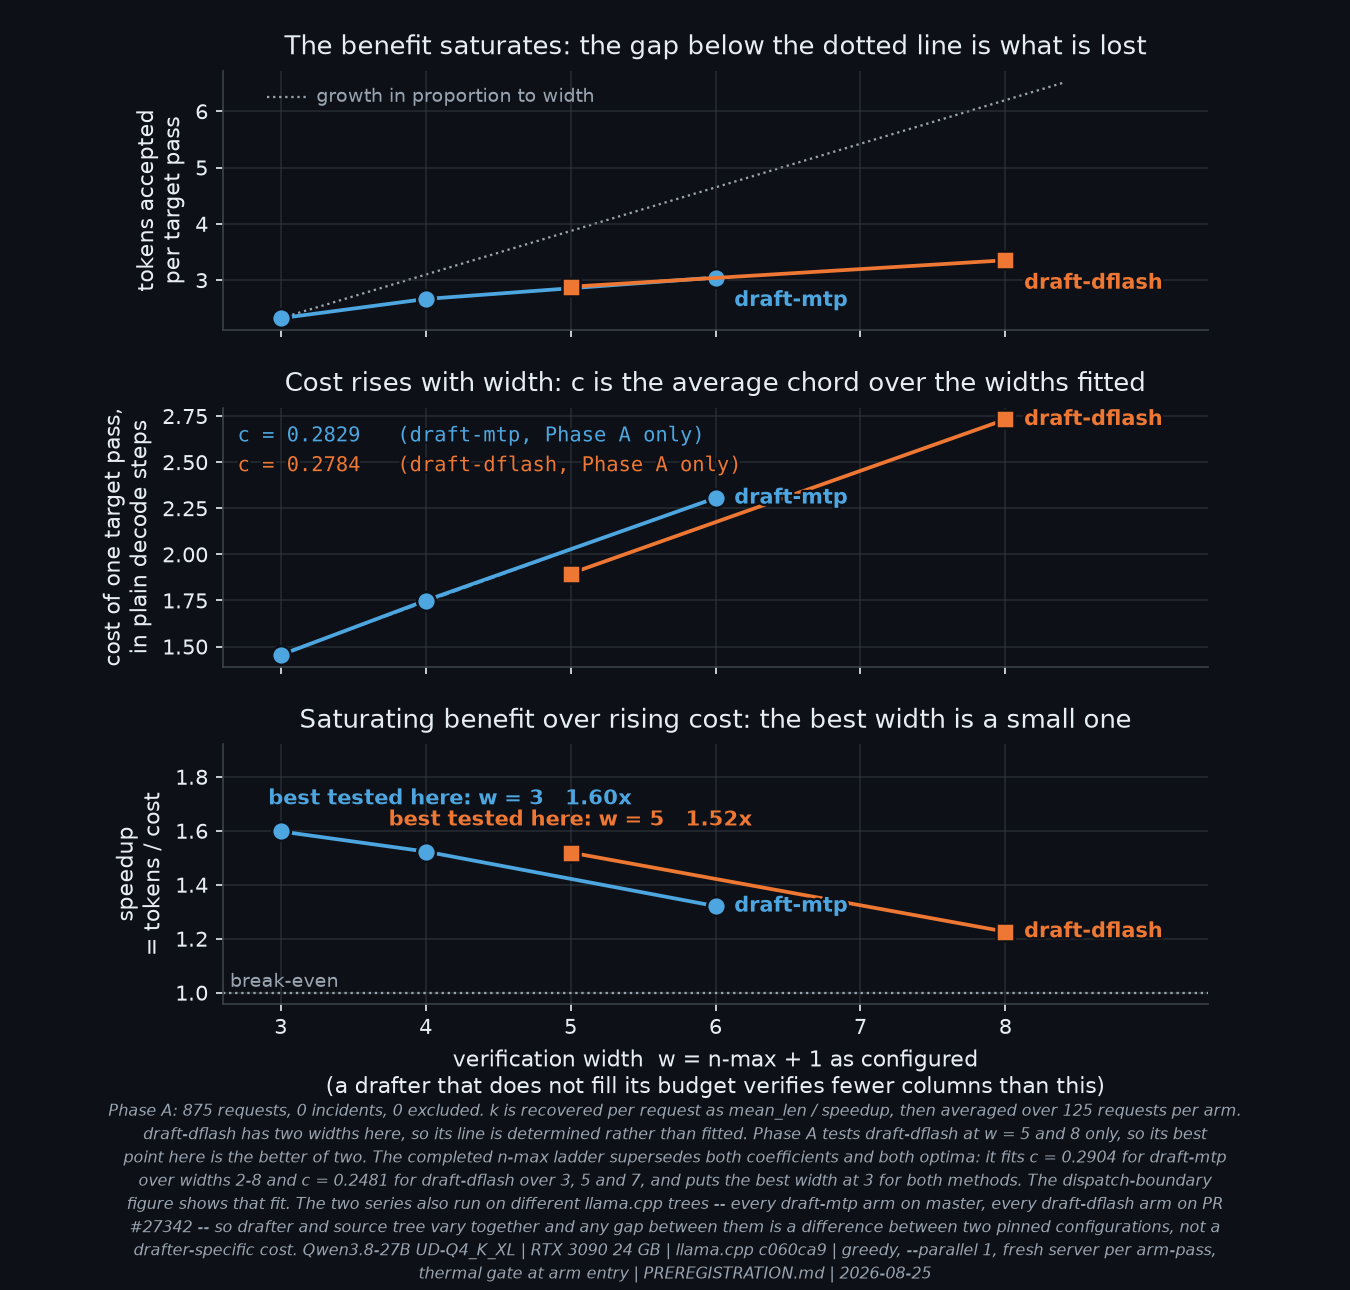
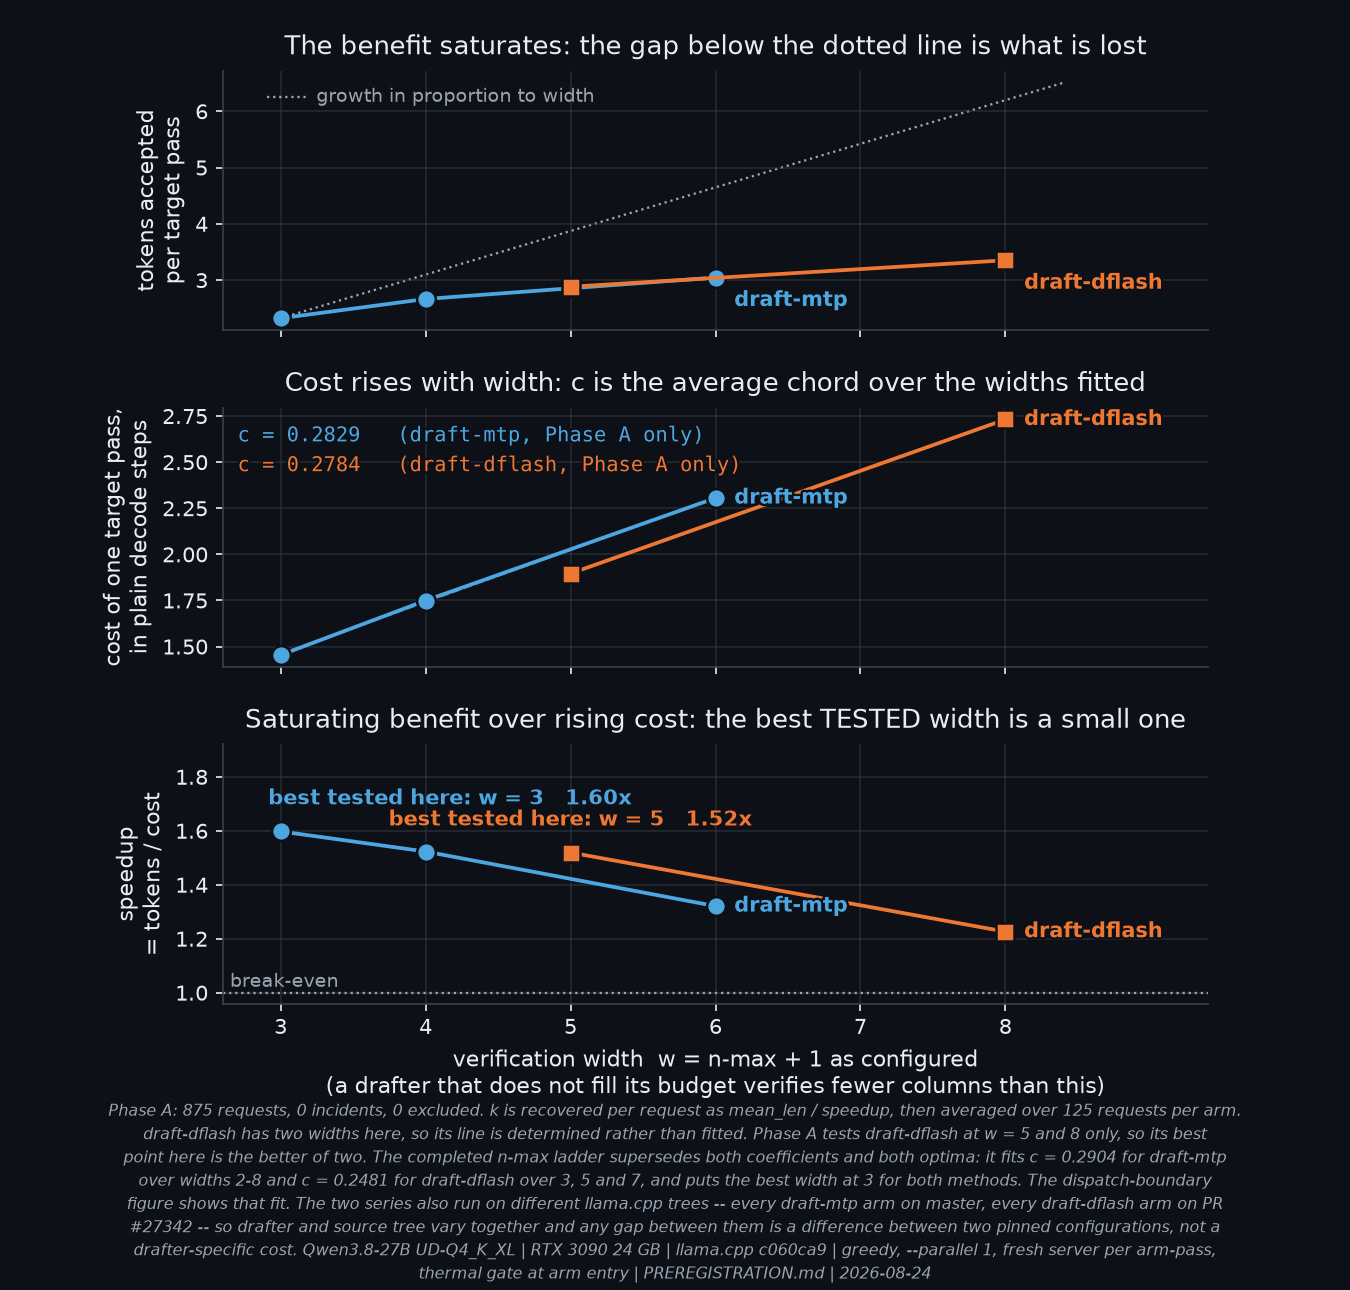
figures: two titles that said more than the bars under them, and a date typed once
`fig_bound_by`'s lower panel was titled "Below 1200 MHz everything scales with clock.
Above it, only the speculative arms still do", with a tick reading "the baseline stops
tracking it". The bar beside that tick reads **0.27**. README.md states the opposite of
the title -- "Both workloads respond to both clocks; what changes is which one they
respond to more" -- and the figure's own alt text in docs/RESOURCE_RESPONSE.md says the
baseline "falls to 0.27 while the speculative arms stay at 0.76 and 0.80". So a reader
with images off got the accurate version and a reader who saw the figure did not. The
title now says the response falls by two thirds and the tick says it falls to 0.27.

`fig_cost_model`'s speedup panel was titled "the best width is a small one", asserting an
optimum that README.md scores as "chosen and evaluated on the same ladder, so that is a
selection-on-the-data figure" and that docs/COST_MODEL.md heads "why the intervals do not
settle it". Its own annotation already said "best tested here"; the title now says TESTED
too.

`plot_qsmall_ladder` panel 3 said the 9B ladder "is the only ladder that can ask" whether
bf16 preserves parity. That is a claim about the world; the reason is the checkable thing
and is now what it states -- the 27B cannot hold bf16 in 24 GB.

And the footer date. `PROVENANCE` carried one hard-coded 2026-08-25 on every figure in
plot.py. Those six figures draw three phases taken on two days: phase_a and phase_r2 on
[…]

Changed region(s): [[0.1867, 0.5271, 0.84, 0.5891]]

diff --git a/analysis/plot.py b/analysis/plot.py
@@ -146,7 +146,19 @@ STYLE = _ThemedStyle()
 
 PROVENANCE = ("Qwen3.8-27B UD-Q4_K_XL | RTX 3090 24 GB | llama.cpp c060ca9 | greedy, "
               "--parallel 1, fresh server per arm-pass, thermal gate at arm entry | "
-              "PREREGISTRATION.md | 2026-08-25")
+              "PREREGISTRATION.md")
+
+
+def captured_on(result):
+    """The date the drawn result was taken, read from the file rather than typed once.
+
+    The footer carried a single hard-coded `2026-08-25` on every figure in this module. The six
+    figures draw three phases taken on two different days: `phase_a` and `phase_r2` on
+    2026-08-24, `phase_nmax` on 2026-08-25. So five of the six asserted a date one day after
+    their own data. A provenance line is the last place a date should come from memory.
+    """
+    ts = ((result or {}).get("env") or {}).get("captured_at") or ""
+    return ts.split("T")[0] or "capture date not recorded"
 PHASE_A_N = "Phase A: 875 requests, 0 incidents, 0 excluded."
 CI_NOTE = ("Nominal 95 % paired cluster bootstrap over prompts within class, 10 000 "
            "resamples. The inferential unit is the prompt, n = 25; the passes are repeated "
@@ -191,7 +203,8 @@ def _halo(lw=2.2):
     return [pe.withStroke(linewidth=lw, foreground=C("bg"))]
 
 
-def _save(fig, stem, note="", bottom=0.13, provenance=None, top_in=None):
+def _save(fig, stem, note="", bottom=0.13, provenance=None, top_in=None,
+          captured=None):
     # Footer spacing is computed in inches, not in figure fractions. A fixed fraction is a
     # different number of pixels on every figure height, and on the 4.5-inch panels it put the
     # footer lines on top of each other and on the x-label.
@@ -199,8 +212,10 @@ def _save(fig, stem, note="", bottom=0.13, provenance=None, top_in=None):
     # `provenance` is overridable because the Phase M figures cover two targets and the
     # module-level line names one. A figure that carries the wrong target in its footer is worse
     # than one with no footer.
-    lines = textwrap.wrap(" ".join(x for x in (note, provenance or PROVENANCE) if x),
-                          width=int(w_in * 15.5))
+    prov = provenance or PROVENANCE
+    if captured:
+        prov = f"{prov} | {captured}"
+    lines = textwrap.wrap(" ".join(x for x in (note, prov) if x), width=int(w_in * 15.5))
     line_h, pad = 0.155 / h_in, 0.05 / h_in
     # 0.62 in below the axes for the tick labels and the x-label, then the footer block under it.
     fig.subplots_adjust(bottom=max(bottom, pad + line_h * len(lines) + 0.62 / h_in))
@@ -243,7 +258,7 @@ def _despine(ax, keep=("bottom", "left")):
 
 
 # ------------------------------------------------------------------ 1. the primary endpoint
-def fig_headline(series, prompt_class):
+def fig_headline(series, prompt_class, captured=None):
     rows = sorted(((a, _effect(series, prompt_class, a), _strat_mean(series, prompt_class, a))
                    for a in SPEC_ARMS), key=lambda r: r[1].point)
     base_abs = _strat_mean(series, prompt_class, "baseline@master")
@@ -274,11 +289,11 @@ def fig_headline(series, prompt_class):
                        for k, (c, m) in STYLE.items()],
               loc="lower right", frameon=False)
     fig.subplots_adjust(left=0.315, right=0.975, top=0.80)
-    _save(fig, "plot_headline", note=PHASE_A_N + " " + CI_NOTE)
+    _save(fig, "plot_headline", note=PHASE_A_N + " " + CI_NOTE, captured=captured)
 
 
 # ------------------------------------------------------------------ 2. where the win lives
-def fig_per_class(series, prompt_class):
+def fig_per_class(series, prompt_class, captured=None):
     classes = sorted(set(prompt_class.values()))
     M = np.full((len(SPEC_ARMS), len(classes)), np.nan)
     for i, arm in enumerate(SPEC_ARMS):
@@ -306,7 +321,7 @@ def fig_per_class(series, prompt_class):
                  "conversational and Chinese prompts as the verification width grows", pad=12)
     fig.colorbar(im, ax=ax, fraction=0.030, pad=0.02).set_label("vs baseline (%)", fontsize=9.6)
     fig.subplots_adjust(left=0.20, right=0.93, top=0.80)
-    _save(fig, "plot_per_class",
+    _save(fig, "plot_per_class", captured=captured,
           note=PHASE_A_N + " " + CI_NOTE + " Per-class is exploratory; the preregistered endpoint is the pooled "
                          "effect.")
 
@@ -390,7 +405,8 @@ def fig_cost_model(result):
     ax_s.axhline(1.0, color=C("mut"), ls=":", lw=1.1)
     ax_s.text(2.65, 1.005, "break-even", fontsize=9, color=C("mut"), va="bottom")
     ax_s.set_ylabel("speedup\n= tokens / cost")
-    ax_s.set_title("Saturating benefit over rising cost: the best width is a small one", pad=8)
+    ax_s.set_title("Saturating benefit over rising cost: the best TESTED width is a small one",
+                   pad=8)
     ax_s.set_xlabel("verification width  w = n-max + 1 as configured\n"
                     "(a drafter that does not fill its budget verifies fewer columns than this)")
     # below and to the right of the best point, with a leader, so the text never crosses a curve
@@ -418,7 +434,7 @@ def fig_cost_model(result):
     for _ax in axes:
         _ax.set_xlim(2.6, 9.4)   # room for the end labels
     fig.subplots_adjust(left=0.165, right=0.895, top=0.945, hspace=0.30)
-    _save(fig, "plot_cost_model", bottom=0.105,
+    _save(fig, "plot_cost_model", bottom=0.105, captured=captured_on(result),
           note=PHASE_A_N + " k is recovered per request as mean_len / speedup, then averaged over 125 requests "
                "per arm. draft-dflash has two widths here, so its line is determined "
                "rather than fitted. Phase A tests draft-dflash at w = 5 and 8 only, so its best "
@@ -512,7 +528,7 @@ def fig_dispatch_boundary(result_nmax):
         ax.text(0.03, 0.94 - i * 0.075, txt, transform=ax.transAxes, fontsize=9.2, color=col)
     ax.legend(loc="lower right", bbox_to_anchor=(0.99, 0.02), frameon=False, fontsize=9.5)
     _despine(ax)
-    _save(fig, "plot_dispatch_boundary", bottom=0.13,
+    _save(fig, "plot_dispatch_boundary", bottom=0.13, captured=captured_on(result_nmax),
           note="The two series run on different llama.cpp trees: every draft-mtp arm on master, "
                "every draft-dflash arm on PR #27342. Drafter and source tree vary together and no "
                "arm separates them, because draft-dflash cannot be run on master at all, so the "
@@ -571,7 +587,7 @@ def fig_width_partition(result):
         f"share of the {len(prompts)} prompts on which both arms show\n"
         f"the same first-divergence or censoring signature (%)", fontsize=9)
     fig.subplots_adjust(left=0.175, right=0.885, top=0.845)
-    _save(fig, "plot_width_partition",
+    _save(fig, "plot_width_partition", captured=captured_on(result),
           note=PHASE_A_N + f" A cell counts a prompt when both arms show the same signature, "
                f"which includes both reaching the 400-token cap without diverging; the second "
                f"number is how much of the cell that is. Those pairs carry no fork position, so a "
@@ -665,17 +681,21 @@ def fig_bound_by(res):
                      capsize=3, lw=1.2, zorder=3)
         for x, v in zip(xs + (i - 1) * width, vals):
             ax2.text(x, v + 0.025, f"{v:.2f}", ha="center", fontsize=9.2, color=C("fg"))
+    # "the baseline stops tracking it" was wrong on the figure's own evidence: the bar beside it
+    # reads 0.27, and README.md states that both workloads respond to both clocks and only the
+    # ORDERING reverses. The tick now says what the bar shows.
     ax2.set_xticks(xs, ["600 -> 1200 MHz\nall three track the SM clock",
-                        "1200 -> 1710 MHz\nthe baseline stops tracking it"], fontsize=9.6)
+                        "1200 -> 1710 MHz\nthe baseline falls to 0.27, the others hold"],
+                   fontsize=9.6)
     ax2.set_ylabel("SM-clock elasticity")
     ax2.set_ylim(0, 1.14)
-    ax2.set_title("Below 1200 MHz everything scales with clock. Above it, only\n"
-                  "the speculative arms still do", pad=10)
+    ax2.set_title("Below 1200 MHz all three track the SM clock. Above it the\n"
+                  "baseline's response falls by two thirds and the speculative arms hold", pad=10)
     ax2.legend(frameon=False, ncol=3, loc="upper right", fontsize=9.4)
     ax2.grid(axis="y", alpha=0.5); _despine(ax2)
 
     fig.subplots_adjust(left=0.185, right=0.975, top=0.935, hspace=0.62)
-    _save(fig, "plot_bound_by", bottom=0.10,
+    _save(fig, "plot_bound_by", bottom=0.10, captured=captured_on(res),
           note="Phase R2, 1575 requests, 0 incidents. Elasticity is how throughput responds to a "
                "clock that was set, so it places neither workload against a hardware limit: nothing "
                "here counts bytes moved or arithmetic issued, and no claim is made about which "
@@ -694,8 +714,9 @@ def main():
     for mode in ("light", "dark"):
         print(f"  --- {mode}")
         with theme(mode):
-            fig_headline(series, prompt_class)
-            fig_per_class(series, prompt_class)
+            phase_a_date = captured_on(result)
+            fig_headline(series, prompt_class, captured=phase_a_date)
+            fig_per_class(series, prompt_class, captured=phase_a_date)
             fig_cost_model(result)
             if result_nmax is not None:
                 fig_dispatch_boundary(result_nmax)

diff --git a/analysis/plot_qsmall_ladder.py b/analysis/plot_qsmall_ladder.py
@@ -127,8 +127,10 @@ def build(rungs, shared, bpw):
         _panel_points(ax, x, ys, fam, colors[i % len(colors)], marks[i % len(marks)])
     ax.set_ylabel("no divergence observed\nthrough the token cap (%)")
     ax.set_xlabel("bits per weight  (file size / parameter count, measured)")
-    ax.set_title("3.  llama.cpp #25618 says bf16 preserves parity. This is the only ladder that "
-                 "can ask", loc="left", fontsize=10.5, color=P.C("fg"))
+    # "the only ladder that can ask" is a claim about the world; the reason is the one to state.
+    ax.set_title("3.  llama.cpp #25618 says bf16 preserves parity. The 27B cannot hold bf16, "
+                 "so this 9B ladder is where the question can be asked",
+                 loc="left", fontsize=10.5, color=P.C("fg"))
     ax.set_ylim(-3, 103)
     P._despine(ax)
     ax.grid(axis="y", color=P.C("grid"), lw=0.6, zorder=0)
